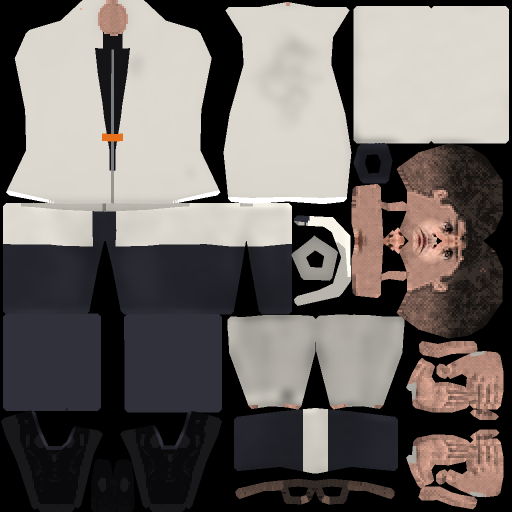
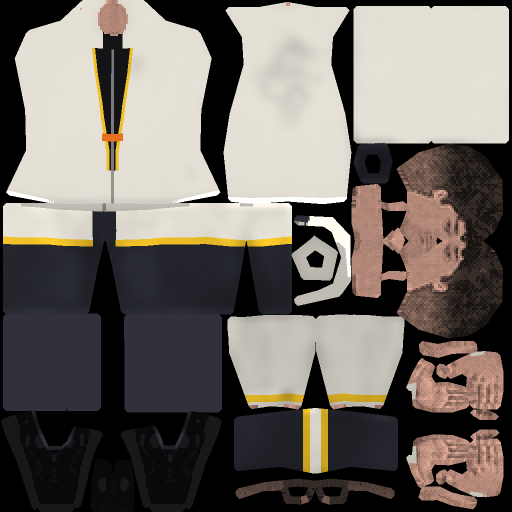
Dom: só a frente do rosto vem da foto (máscara), cabeça/cabelo do elenco; capa de Hokage com chamas amarelas e 小人の隠れ家 nas costas; detalhes amarelos na roupa
Claude-Session: https://claude.ai/code/session_01PVUNKmUDvaP2jpRAvnz1fM

diff --git a/lib/tgp.js b/lib/tgp.js
@@ -305,7 +305,8 @@ export async function cabecaDom(o = {}) {
   gi0.computeVertexNormals();
   const g0 = gi0.toNonIndexed(), p = g0.attributes.position, nn = g0.attributes.normal, ord = [[], []], nor = [[], []];
   for (let t = 0; t < p.count; t += 3) {
-    const zc = (p.getZ(t) + p.getZ(t + 1) + p.getZ(t + 2)) / 3, yc = (p.getY(t) + p.getY(t + 1) + p.getY(t + 2)) / 3, gi = zc > -10 && yc < 105 ? 0 : 1;
+    const zc = (p.getZ(t) + p.getZ(t + 1) + p.getZ(t + 2)) / 3, yc = (p.getY(t) + p.getY(t + 1) + p.getY(t + 2)) / 3, xc = (p.getX(t) + p.getX(t + 1) + p.getX(t + 2)) / 3, gi = zc > -10 && yc < 105 ? 0 : 1;
+    if (o.soFrente && !(zc > 18 && yc < 100 && Math.abs(xc) < 96)) continue;      // só a FRENTE do rosto (máscara): da orelha pra trás fica a cabeça do corpo
     for (let k = 0; k < 3; k++) { ord[gi].push(p.getX(t + k), p.getY(t + k), p.getZ(t + k)); nor[gi].push(nn.getX(t + k), nn.getY(t + k) * .5 + .2, nn.getZ(t + k)); }
   }
   const todos = [...ord[0], ...ord[1]], uvs = [];
@@ -313,7 +314,7 @@ export async function cabecaDom(o = {}) {
   const geo = new THREE.BufferGeometry(); geo.setAttribute('position', new THREE.Float32BufferAttribute(todos, 3)); geo.setAttribute('uv', new THREE.Float32BufferAttribute(uvs, 2));
   geo.setAttribute('normal', new THREE.Float32BufferAttribute([...nor[0], ...nor[1]], 3)); geo.addGroup(0, ord[0].length / 3, 0); geo.addGroup(ord[0].length / 3, ord[1].length / 3, 1);
   cab.add(new THREE.Mesh(geo, [matFoto, matCabelo]));
-  for (const sx of [-1, 1]) cab.add(P.esfera(1, matPele, { seg: 6, pos: [sx * 112, -8, -6], esc: [12, 26, 16] }));                // orelhas
+  if (!o.soFrente) for (const sx of [-1, 1]) cab.add(P.esfera(1, matPele, { seg: 6, pos: [sx * 112, -8, -6], esc: [12, 26, 16] }));                // orelhas
   const kc = (o.largura ?? .17) / 216; cab.scale.setScalar(kc);
 
   const animar = (t, { boca = 0, pisca = 0 } = {}) => {
@@ -377,10 +378,10 @@ export async function acessoriosDom(A, o = {}) {
   const malhaCab = o.cabecaOriginal ? null : A.malhas.find(m => /head/i.test(m.name) && m.isSkinnedMesh);
   if (malhaCab) {
     malhaCab.computeBoundingBox(); const bb = malhaCab.boundingBox.clone().applyMatrix4(malhaCab.matrixWorld), cen = bb.getCenter(new THREE.Vector3()), tam = bb.getSize(new THREE.Vector3());
-    rosto = await cabecaDom({ largura: Math.min(tam.x, tam.z) * (o.escRosto ?? .98) });
-    rosto.cab.position.copy(cen).add(new THREE.Vector3(0, o.dy ?? -.01, 0).add(new THREE.Vector3(Math.sin(A.obj.rotation.y), 0, Math.cos(A.obj.rotation.y)).multiplyScalar(o.dz ?? .012)));
+    rosto = await cabecaDom({ largura: Math.min(tam.x, tam.z) * (o.escRosto ?? .95), soFrente: true });     // só a frente: cabelo, orelhas e nuca são do corpo
+    rosto.cab.position.copy(cen).add(new THREE.Vector3(0, o.dy ?? -.022, 0).add(new THREE.Vector3(Math.sin(A.obj.rotation.y), 0, Math.cos(A.obj.rotation.y)).multiplyScalar(o.dz ?? .035)));
     rosto.cab.rotation.y = A.obj.rotation.y; A.obj.parent.add(rosto.cab); cab.attach(rosto.cab);
-    malhaCab.visible = false; topo = cen.y + rosto.RY * rosto.kc; c = cen;
+    c = cen;
   }
   const g = new THREE.Group(); g.position.set(c.x, topo - .045, c.z + .005); A.obj.parent.add(g);
   g.add(P.cilindro(0, .31, .15, P.mat({ mapa: chapeuTex(), lados: THREE.DoubleSide }), { seg: 16, pos: [0, .075, 0], rot: [0, Math.PI, 0] }));
@@ -390,6 +391,32 @@ export async function acessoriosDom(A, o = {}) {
   const veu = new THREE.Mesh(new THREE.CylinderGeometry(.15, .26, .44, 14, 3, true, Math.PI / 2 + .72, Math.PI * 2 - 1.44), P.mat({ mapa: veuTex, lados: THREE.DoubleSide }));
   veu.position.set(0, -.22, -.02); veu.rotation.y = -Math.PI / 2; g.add(veu);
   g.rotation.y = A.obj.rotation.y; cab.attach(g);                                  // a partir daqui segue a cabeça
+  // CAPA de Hokage: branca, chamas AMARELAS na barra, "小人の隠れ家" (Toca do Anão) na vertical nas costas + gola alta
+  const capaTex = P.textura(256, 384, (x, w, h, r) => {
+    x.fillStyle = '#ece8de'; x.fillRect(0, 0, w, h);
+    for (let i = 0; i < w; i += 2) { const k = .5 + .5 * Math.sin(i * .21) * Math.sin(i * .053 + 1); x.fillStyle = `rgba(150,140,120,${.08 * k})`; x.fillRect(i, 0, 2, h); }   // dobras
+    const AM = '#f0c020', AM2 = '#c98a10', base = h * .86;
+    x.fillStyle = AM; x.fillRect(0, base, w, h - base);
+    for (let i = -1; i < 13; i++) {                                                   // línguas de fogo subindo da barra
+      const cx = (i + .5) * w / 12 + (r() - .5) * 6, alt = h * (.1 + .08 * r()), lg = w / 12 * .55;
+      x.beginPath(); x.moveTo(cx - lg, base + 2); x.quadraticCurveTo(cx - lg * .8, base - alt * .5, cx + lg * .3 * (r() < .5 ? -1 : 1), base - alt);
+      x.quadraticCurveTo(cx + lg * .4, base - alt * .45, cx + lg, base + 2); x.closePath(); x.fill();
+    }
+    x.fillStyle = '#ece8de';                                                          // chamas brancas por dentro (como na capa da referência)
+    for (let i = 0; i < 12; i++) { const cx = (i + .5) * w / 12 + 4, lg = w / 12 * .22, alt = h * .06;
+      x.beginPath(); x.moveTo(cx - lg, h - 4); x.quadraticCurveTo(cx - lg, h - alt * .6, cx, h - alt); x.quadraticCurveTo(cx + lg * .5, h - alt * .5, cx + lg, h - 4); x.closePath(); x.fill(); }
+    x.strokeStyle = AM2; x.lineWidth = 1; x.strokeRect(0, base, w, 1);
+    x.fillStyle = '#a8740c'; x.font = 'bold 30px IPAGothic, "WenQuanYi Zen Hei", sans-serif'; x.textAlign = 'center'; x.textBaseline = 'top';
+    [...'小人の隠れ家'].forEach((ch, i) => x.fillText(ch, w * .5, 26 + i * 33));         // vertical, no meio das costas
+  }, { seed: 12 });
+  const capaMat = P.mat({ mapa: capaTex, lados: THREE.DoubleSide }), VAO = 1.25;
+  const capa = new THREE.Mesh(new THREE.CylinderGeometry(.2, .34, 1.02, 20, 4, true, Math.PI / 2 + VAO / 2, Math.PI * 2 - VAO), capaMat);
+  capa.rotation.y = -Math.PI / 2;
+  const tronco = A.osso('spine.003'), pt = tronco.getWorldPosition(new THREE.Vector3()), capaG = new THREE.Group();
+  capaG.position.set(pt.x, pt.y + .08 - .51, pt.z - .02); capaG.rotation.y = A.obj.rotation.y; capaG.add(capa); A.obj.parent.add(capaG); tronco.attach(capaG);
+  const gola = new THREE.Mesh(new THREE.CylinderGeometry(.1, .12, .1, 14, 1, true, Math.PI / 2 + .45, Math.PI * 2 - .9), P.mat({ cor: '#ece8de', lados: THREE.DoubleSide }));
+  gola.rotation.y = -Math.PI / 2; const pesc = A.osso('spine.004'), pp = pesc.getWorldPosition(new THREE.Vector3()), golaG = new THREE.Group();
+  golaG.position.set(pp.x, pp.y + .01, pp.z - .005); golaG.rotation.y = A.obj.rotation.y; golaG.add(gola); A.obj.parent.add(golaG); pesc.attach(golaG);
   return { chapeu: g, veu, rosto, atualizar: (t, f = {}) => { veu.rotation.z = Math.sin(t * .9) * .015; rosto?.animar(t, f); } };
 }
 

diff --git a/tools/pintar_jashi_vasco.py b/tools/pintar_jashi_vasco.py
@@ -117,12 +117,13 @@ for x, y, p, t in lista:
     if ROUPA == 'dom' and k not in ('pele_cab', 'cabelo'):
         # DOM: casaco branco (manga comprida até o pulso) aberto em V sobre blusa preta de zíper, fivela laranja, gola alta branca;
         # calça escura e sapato preto
-        CASACO, BLUSA, ZIPER, LARANJA, CALCA_D, SAP = (218, 214, 205), (20, 20, 23), (120, 122, 126), (226, 112, 30), (36, 37, 44), (18, 18, 20)
+        CASACO, BLUSA, ZIPER, LARANJA, CALCA_D, SAP, AMAR = (226, 222, 212), (20, 20, 23), (120, 122, 126), (226, 112, 30), (36, 37, 44), (18, 18, 20), (236, 190, 40)
         frente = n[1] < -0.2
-        if t['obj'] == 'arms': c = [q * dobra(OB[x, y], 'manga', 0.8) for q in CASACO] if ax < PULSO else [PELE[i] * dobra(o, 'pele', 0.9) for i in range(3)]
+        if t['obj'] == 'arms': c = [q * dobra(OB[x, y], 'manga', 0.5) for q in (AMAR if PULSO - 0.045 < ax < PULSO - 0.012 else CASACO)] if ax < PULSO else [PELE[i] * dobra(o, 'pele', 0.9) for i in range(3)]   # punho amarelo
         elif k == 'chuteira': c = [q * dobra(o, k, 0.8) for q in SAP]
         elif Z < 0.96 and t['obj'] == 'body':
             cor = CASACO if (Z > 0.80 and not (frente and ax < 0.05)) else CALCA_D                # barra do casaco cobre o quadril (aberta na frente)
+            if cor == CASACO and Z < 0.83: cor = AMAR                                                # barra amarela
             c = [q * dobra(OB[x, y], 'calcao', 0.35 if cor == CASACO else 0.6) for q in cor]
         elif k == 'pele': c = [PELE[i] * dobra(o, k, 0.9) for i in range(3)]
         else:
@@ -132,6 +133,7 @@ for x, y, p, t in lista:
                 if ax < v and Z > 1.10:
                     cor = BLUSA
                     if ax < 0.006: cor = ZIPER                                                    # zíper
+                elif ax < v + 0.014 and Z > 1.10: cor = AMAR                                       # debrum amarelo na abertura
                 if abs(Z - 1.24) < 0.016 and ax < 0.045: cor = LARANJA                            # fivela laranja
                 if Z <= 1.10 and ax < 0.007: cor = (150, 148, 140)                                # fecho do casaco
             if Z > 1.64 and rn_ < 0.13: cor = BLUSA if (frente and ax < 0.05) else CASACO        # gola alta branca (blusa preta na frente)
@@ -159,7 +161,7 @@ for x, y, p, t in lista:
         mx, my = X / ESC * 512 + 256, (CZ - Z) / ESC * 512 + 256
         w = max(0.0, min(1.0, (1 - math.hypot((mx - 256) / 88, (my - 285) / 150)) / 0.3)) * (ss(-0.1, -0.55, n[1]) if n[1] > -0.55 else 1)
         base = [PELE[i] * dobra(o, k, 0.8) for i in range(3)]
-        if w > 0: f = amostra(mx, my); base = [base[i] * (1 - w) + f[i] * w for i in range(3)]
+        if w > 0 and os.environ.get('ROSTO_LISO') != '1': f = amostra(mx, my); base = [base[i] * (1 - w) + f[i] * w for i in range(3)]   # ROSTO_LISO=1: só pele (o rosto vem de uma máscara por cima)
         c = base
     elif k == 'cabelo':
         c = [CAB[i] * dobra(o, k, 1.0) for i in range(3)]

diff --git a/material/producao/personagens/dom/LEIA.md b/material/producao/personagens/dom/LEIA.md
@@ -6,8 +6,12 @@
   Casaco branco de manga comprida aberto em V, blusa preta de zíper, fivela laranja, gola alta, calça escura, sapato preto.
 - Montagem e animação: `CALCA=1 blender ... montar_jashi.py -- texturas/dom_512.png dom.blend` → `animar_jashi.py` → `exportar_glb.py`
   (10 animações: idle walk run talk wave sit cower attack hit death). Arquivo 3D fora do git (licença do JashiPSX).
-- "Frankenstein" (escolha do diretor): corpo, roupa e animações do modelo do elenco + a CABEÇA DA FOTO do primeiro modelo
-  (`T.cabecaDom()`), presa ao osso da cabeça no lugar da original (que fica escondida). `?cabeca=elenco` mostra a cabeça pintada.
+- "Frankenstein" (escolha do diretor): corpo, roupa, animações e cabeça (cabelo, orelhas, nuca) do modelo do elenco; só a FRENTE do rosto
+  vem da foto do primeiro modelo (`T.cabecaDom({ soFrente: true })`, máscara presa ao osso da cabeça). A textura é pintada com `ROSTO_LISO=1`
+  (frente da cabeça só pele, sem traços), pra nada aparecer por trás da máscara. `?cabeca=elenco` tira a máscara.
+- Detalhes amarelos na roupa: debrum da abertura do casaco, punhos e barra.
+- Capa de Hokage (`acessoriosDom`): branca, chamas amarelas na barra, "小人の隠れ家" (kobito no kakurega, "o esconderijo/toca do anão") na vertical
+  nas costas (fonte IPAGothic), gola alta; presa ao tronco (spine.003).
 - Chapéu cônico laranja/branco com 火 e véu: `await T.acessoriosDom(A)` (lib/tgp.js), presos ao osso da cabeça; `D.atualizar(t, { boca, pisca })`.
 - Uso: `const A = await E4.ator('dom'); cena.add(A.obj); const D = await T.acessoriosDom(A);` e a cada quadro `D.atualizar(t, { boca, pisca })` · folha: `videos/98-dom` (?v=frente|tres|lado|costas|rosto &clip=walk).
 - Versão antiga (corpo simples + cabeça procedural): `videos/98-dom?base=procedural`.
